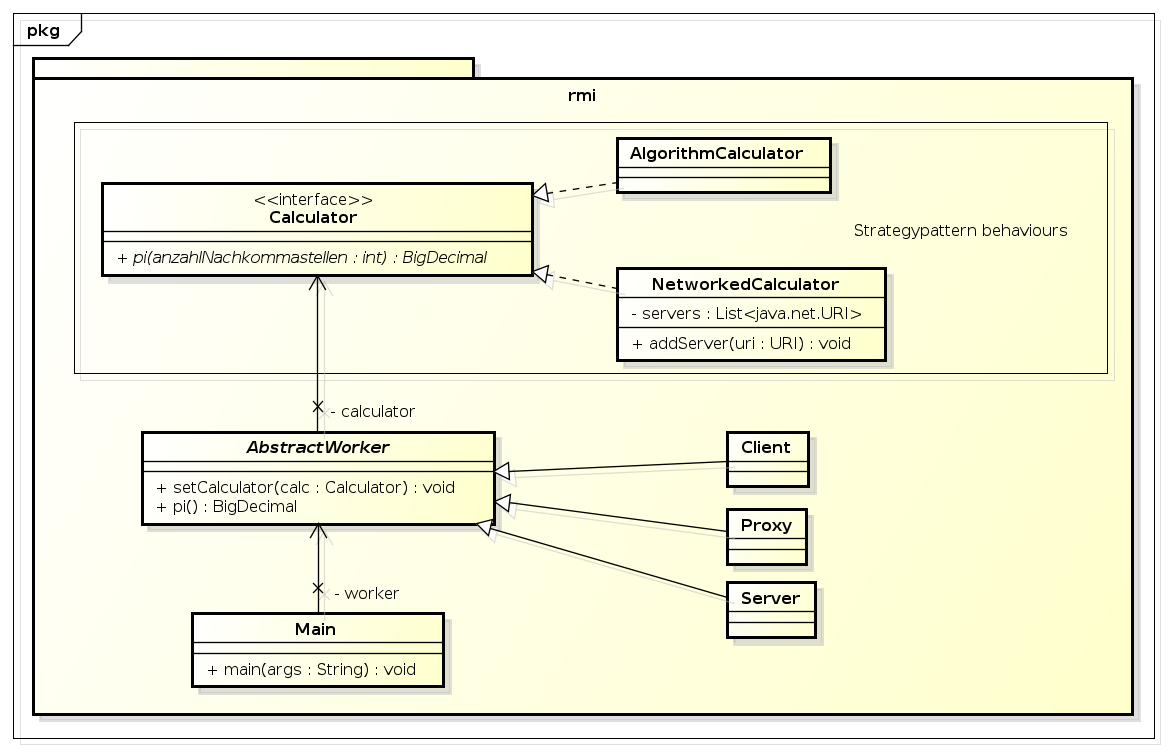
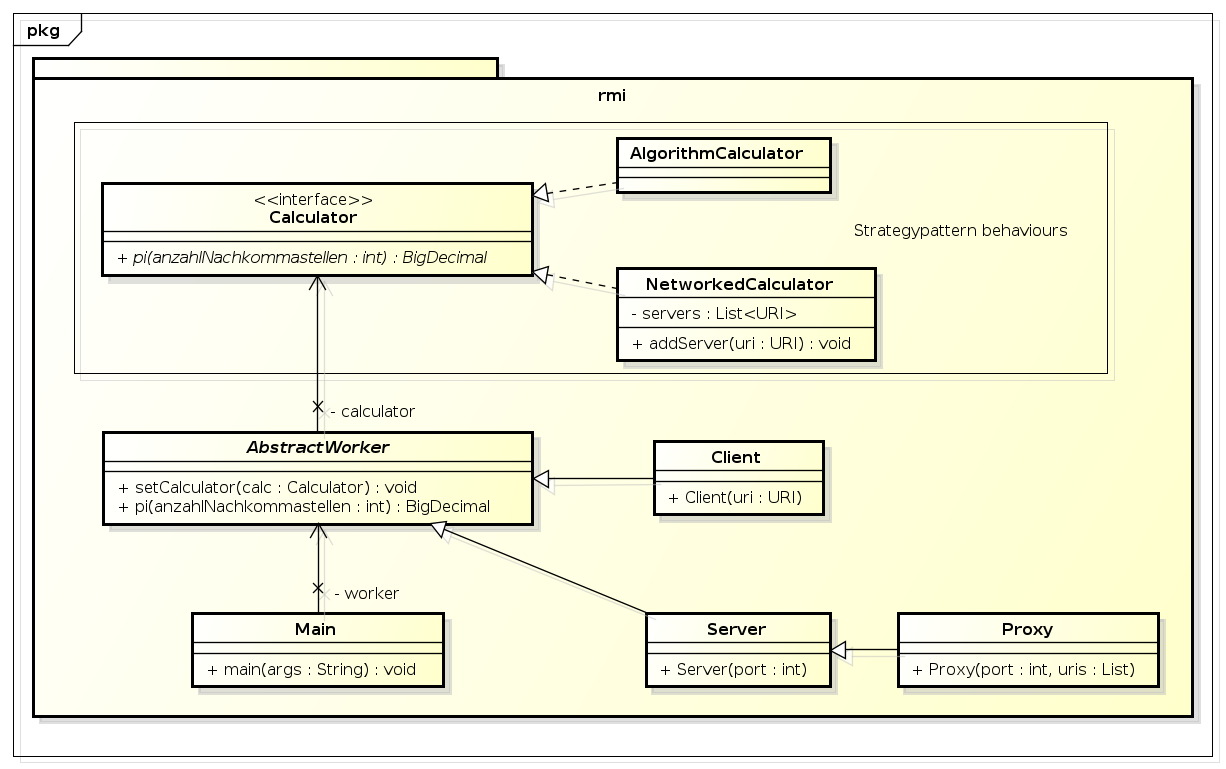
kleine Designänderung

Changed region(s): [[0.0, 0.0, 1.0, 1.0], [0.0616, 0.4588, 0.0925, 0.4894]]

diff --git a/src/rmi/Server.java b/src/rmi/Server.java
@@ -15,20 +15,18 @@
  */
 package rmi;
 
-// TODO: Auto-generated Javadoc
 /**
  * The Class Server.
  */
 public class Server extends AbstractWorker {
 
 	/**
-	 * Instantiates a new server.
+	 * Erstellt einen neuen Server an einen spezifischen Port
 	 *
-	 * @param calc the calc
+	 * @param port der Port an dem der Server lauschen soll
 	 */
-	public Server(Calculator calc) {
-		super(calc);
-		// TODO Auto-generated constructor stub
+	public Server(int port) {
+        AlgorithmCalculator calculator = new AlgorithmCalculator();
+        setCalculator(calculator);
 	}
-
 }

diff --git a/src/rmi/AbstractWorker.java b/src/rmi/AbstractWorker.java
@@ -27,15 +27,6 @@ public abstract class AbstractWorker {
 	private Calculator calculator;
 
 	/**
-	 * Instantiates a new abstract worker.
-	 *
-	 * @param calc the calc
-	 */
-	public AbstractWorker(Calculator calc){
-		this.calculator=calc;
-	}
-
-	/**
 	 * Pi.
 	 *
 	 * @param anzahlNachkommastellen the anzahl nachkommastellen
@@ -45,4 +36,7 @@ public abstract class AbstractWorker {
 		return calculator.pi(anzahlNachkommastellen);
 	}
 
+    public void setCalculator(Calculator calculator) {
+        this.calculator = calculator;
+    }
 }

diff --git a/src/rmi/Proxy.java b/src/rmi/Proxy.java
@@ -19,7 +19,7 @@ package rmi;
 /**
  * The Class Proxy.
  */
-public class Proxy extends AbstractWorker {
+public class Proxy extends Server {
 
 	/**
 	 * Instantiates a new proxy.
@@ -27,8 +27,6 @@ public class Proxy extends AbstractWorker {
 	 * @param calc the calc
 	 */
 	public Proxy(Calculator calc) {
-		super(calc);
-		// TODO Auto-generated constructor stub
-	}
 
+	}
 }
